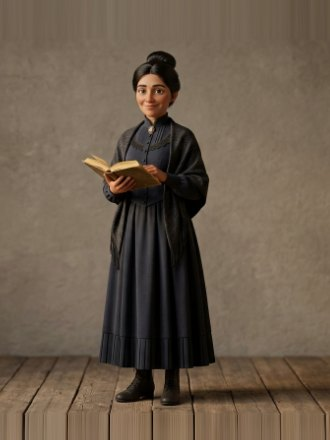
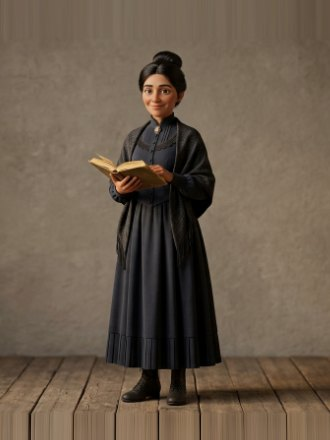
juego-12 Tema 3: la R3 ensena cuales eran, y la oficinista centrada
En el revelado de la R3, una frase que habia que sellar y se quedo sin
sello sale en ambar con "ERA ESTA": antes llevaba una equis a secas y
no se veia cuales eran las correctas.

El centrado de las fotos se mide ahora en la franja de la cabeza y los
hombros, donde solo esta la persona: mas abajo entraban la mesa, la
silla o el borde del piso y corrian el centro. Ademas se recortan los
flancos flojos de la caja (sombras y muebles pegados).

diff --git a/juegos/juego-12/EDINUN GAMES.html b/juegos/juego-12/EDINUN GAMES.html
@@ -3171,22 +3171,34 @@ function L6T3R3Sello({ onSolve, verifyRef, onClear, listo }) {
 
   function frase(f) {
     const marcada = sellados.indexOf(f.id) >= 0;
+    // ⚠ Al revelar hay que ver CUÁLES ERAN las correctas, no solo si acertaste: una
+    // frase que había que sellar y se quedó sin sello sale en ÁMBAR con "ERA ESTA".
+    // Antes llevaba una ✗ a secas y la autora no veía cuáles eran las buenas.
+    const caso = !verified ? null : (marcada ? (f.fuera ? "bien" : "mal") : (f.fuera ? "falto" : "ajena"));
     let bd = marcada ? "#c0392b" : "rgba(120,94,48,0.5)";
-    if (verified) bd = marcada ? (f.fuera ? "#2ecc8f" : "#ff6b6b") : (f.fuera ? "#f2c260" : "rgba(120,94,48,0.5)");
+    if (verified) bd = caso === "bien" ? "#2ecc8f" : caso === "mal" ? "#ff6b6b" : caso === "falto" ? "#f2c260" : "rgba(120,94,48,0.4)";
     return (
       <div key={f.id} data-qa="frase" ref={(el) => { refs.current[f.id] = el; }} onClick={() => sellar(f.id)}
         style={{
           position: "relative", width: "100%", boxSizing: "border-box", minHeight: 56, display: "flex", alignItems: "center", gap: 8,
-          borderRadius: 8, border: `2px solid ${bd}`, background: "rgba(255,253,246,0.93)", padding: "6px 10px",
-          cursor: verified ? "default" : "pointer", userSelect: "none", WebkitUserSelect: "none",
+          borderRadius: 8, border: `${caso === "falto" ? 3 : 2}px solid ${bd}`,
+          background: caso === "falto" ? "rgba(255,236,187,0.96)" : "rgba(255,253,246,0.93)",
+          boxShadow: caso === "falto" ? "0 0 0 3px rgba(242,194,96,0.3)" : "none",
+          padding: "6px 10px", cursor: verified ? "default" : "pointer", userSelect: "none", WebkitUserSelect: "none",
+          opacity: caso === "ajena" ? 0.8 : 1,
         }}>
         <span style={{ flexShrink: 0, fontSize: 11, color: "#8a6410" }}>▸</span>
         <span style={{ flex: 1, minWidth: 0, fontFamily: "var(--ed-font-ui)", fontWeight: 700, fontSize: 13, lineHeight: 1.25, color: "#3a2608" }}>{f.t}</span>
         {marcada && (
           <span style={{ flexShrink: 0, transform: "rotate(-8deg)", border: "2.5px solid rgba(192,57,43,0.85)", borderRadius: 6, padding: "2px 7px", fontFamily: "var(--ed-font-display)", fontWeight: 900, fontSize: 9, letterSpacing: "0.06em", color: "rgba(192,57,43,0.9)", background: "rgba(192,57,43,0.08)" }}>NO ES PUEBLO</span>
         )}
+        {caso === "falto" && (
+          <span style={{ flexShrink: 0, borderRadius: 999, padding: "2px 9px", background: "rgba(242,194,96,0.55)", fontFamily: "var(--ed-font-display)", fontWeight: 900, fontSize: 9, letterSpacing: "0.06em", color: "#8a6410" }}>ERA ESTA</span>
+        )}
         {verified && (
-          <span style={{ flexShrink: 0, width: 17, height: 17, borderRadius: "50%", background: (marcada === f.fuera) ? "#1f8a54" : "#c0392b", color: "#fff", display: "flex", alignItems: "center", justifyContent: "center", fontWeight: 900, fontSize: 11 }}>{(marcada === f.fuera) ? "✓" : "✗"}</span>
+          <span style={{ flexShrink: 0, width: 17, height: 17, borderRadius: "50%", background: caso === "bien" ? "#1f8a54" : caso === "mal" ? "#c0392b" : caso === "falto" ? "#d8a32a" : "rgba(120,94,48,0.35)", color: "#fff", display: "flex", alignItems: "center", justifyContent: "center", fontWeight: 900, fontSize: 11 }}>
+            {caso === "bien" ? "✓" : caso === "mal" ? "✗" : caso === "falto" ? "!" : "✓"}
+          </span>
         )}
       </div>
     );

diff --git a/juegos/juego-12/game-screens.jsx b/juegos/juego-12/game-screens.jsx
@@ -2588,22 +2588,34 @@ function L6T3R3Sello({ onSolve, verifyRef, onClear, listo }) {
 
   function frase(f) {
     const marcada = sellados.indexOf(f.id) >= 0;
+    // ⚠ Al revelar hay que ver CUÁLES ERAN las correctas, no solo si acertaste: una
+    // frase que había que sellar y se quedó sin sello sale en ÁMBAR con "ERA ESTA".
+    // Antes llevaba una ✗ a secas y la autora no veía cuáles eran las buenas.
+    const caso = !verified ? null : (marcada ? (f.fuera ? "bien" : "mal") : (f.fuera ? "falto" : "ajena"));
     let bd = marcada ? "#c0392b" : "rgba(120,94,48,0.5)";
-    if (verified) bd = marcada ? (f.fuera ? "#2ecc8f" : "#ff6b6b") : (f.fuera ? "#f2c260" : "rgba(120,94,48,0.5)");
+    if (verified) bd = caso === "bien" ? "#2ecc8f" : caso === "mal" ? "#ff6b6b" : caso === "falto" ? "#f2c260" : "rgba(120,94,48,0.4)";
     return (
       <div key={f.id} data-qa="frase" ref={(el) => { refs.current[f.id] = el; }} onClick={() => sellar(f.id)}
         style={{
           position: "relative", width: "100%", boxSizing: "border-box", minHeight: 56, display: "flex", alignItems: "center", gap: 8,
-          borderRadius: 8, border: `2px solid ${bd}`, background: "rgba(255,253,246,0.93)", padding: "6px 10px",
-          cursor: verified ? "default" : "pointer", userSelect: "none", WebkitUserSelect: "none",
+          borderRadius: 8, border: `${caso === "falto" ? 3 : 2}px solid ${bd}`,
+          background: caso === "falto" ? "rgba(255,236,187,0.96)" : "rgba(255,253,246,0.93)",
+          boxShadow: caso === "falto" ? "0 0 0 3px rgba(242,194,96,0.3)" : "none",
+          padding: "6px 10px", cursor: verified ? "default" : "pointer", userSelect: "none", WebkitUserSelect: "none",
+          opacity: caso === "ajena" ? 0.8 : 1,
         }}>
         <span style={{ flexShrink: 0, fontSize: 11, color: "#8a6410" }}>▸</span>
         <span style={{ flex: 1, minWidth: 0, fontFamily: "var(--ed-font-ui)", fontWeight: 700, fontSize: 13, lineHeight: 1.25, color: "#3a2608" }}>{f.t}</span>
         {marcada && (
           <span style={{ flexShrink: 0, transform: "rotate(-8deg)", border: "2.5px solid rgba(192,57,43,0.85)", borderRadius: 6, padding: "2px 7px", fontFamily: "var(--ed-font-display)", fontWeight: 900, fontSize: 9, letterSpacing: "0.06em", color: "rgba(192,57,43,0.9)", background: "rgba(192,57,43,0.08)" }}>NO ES PUEBLO</span>
         )}
+        {caso === "falto" && (
+          <span style={{ flexShrink: 0, borderRadius: 999, padding: "2px 9px", background: "rgba(242,194,96,0.55)", fontFamily: "var(--ed-font-display)", fontWeight: 900, fontSize: 9, letterSpacing: "0.06em", color: "#8a6410" }}>ERA ESTA</span>
+        )}
         {verified && (
-          <span style={{ flexShrink: 0, width: 17, height: 17, borderRadius: "50%", background: (marcada === f.fuera) ? "#1f8a54" : "#c0392b", color: "#fff", display: "flex", alignItems: "center", justifyContent: "center", fontWeight: 900, fontSize: 11 }}>{(marcada === f.fuera) ? "✓" : "✗"}</span>
+          <span style={{ flexShrink: 0, width: 17, height: 17, borderRadius: "50%", background: caso === "bien" ? "#1f8a54" : caso === "mal" ? "#c0392b" : caso === "falto" ? "#d8a32a" : "rgba(120,94,48,0.35)", color: "#fff", display: "flex", alignItems: "center", justifyContent: "center", fontWeight: 900, fontSize: 11 }}>
+            {caso === "bien" ? "✓" : caso === "mal" ? "✗" : caso === "falto" ? "!" : "✓"}
+          </span>
         )}
       </div>
     );

diff --git a/juegos/juego-12/index.html b/juegos/juego-12/index.html
@@ -3171,22 +3171,34 @@ function L6T3R3Sello({ onSolve, verifyRef, onClear, listo }) {
 
   function frase(f) {
     const marcada = sellados.indexOf(f.id) >= 0;
+    // ⚠ Al revelar hay que ver CUÁLES ERAN las correctas, no solo si acertaste: una
+    // frase que había que sellar y se quedó sin sello sale en ÁMBAR con "ERA ESTA".
+    // Antes llevaba una ✗ a secas y la autora no veía cuáles eran las buenas.
+    const caso = !verified ? null : (marcada ? (f.fuera ? "bien" : "mal") : (f.fuera ? "falto" : "ajena"));
     let bd = marcada ? "#c0392b" : "rgba(120,94,48,0.5)";
-    if (verified) bd = marcada ? (f.fuera ? "#2ecc8f" : "#ff6b6b") : (f.fuera ? "#f2c260" : "rgba(120,94,48,0.5)");
+    if (verified) bd = caso === "bien" ? "#2ecc8f" : caso === "mal" ? "#ff6b6b" : caso === "falto" ? "#f2c260" : "rgba(120,94,48,0.4)";
     return (
       <div key={f.id} data-qa="frase" ref={(el) => { refs.current[f.id] = el; }} onClick={() => sellar(f.id)}
         style={{
           position: "relative", width: "100%", boxSizing: "border-box", minHeight: 56, display: "flex", alignItems: "center", gap: 8,
-          borderRadius: 8, border: `2px solid ${bd}`, background: "rgba(255,253,246,0.93)", padding: "6px 10px",
-          cursor: verified ? "default" : "pointer", userSelect: "none", WebkitUserSelect: "none",
+          borderRadius: 8, border: `${caso === "falto" ? 3 : 2}px solid ${bd}`,
+          background: caso === "falto" ? "rgba(255,236,187,0.96)" : "rgba(255,253,246,0.93)",
+          boxShadow: caso === "falto" ? "0 0 0 3px rgba(242,194,96,0.3)" : "none",
+          padding: "6px 10px", cursor: verified ? "default" : "pointer", userSelect: "none", WebkitUserSelect: "none",
+          opacity: caso === "ajena" ? 0.8 : 1,
         }}>
         <span style={{ flexShrink: 0, fontSize: 11, color: "#8a6410" }}>▸</span>
         <span style={{ flex: 1, minWidth: 0, fontFamily: "var(--ed-font-ui)", fontWeight: 700, fontSize: 13, lineHeight: 1.25, color: "#3a2608" }}>{f.t}</span>
         {marcada && (
           <span style={{ flexShrink: 0, transform: "rotate(-8deg)", border: "2.5px solid rgba(192,57,43,0.85)", borderRadius: 6, padding: "2px 7px", fontFamily: "var(--ed-font-display)", fontWeight: 900, fontSize: 9, letterSpacing: "0.06em", color: "rgba(192,57,43,0.9)", background: "rgba(192,57,43,0.08)" }}>NO ES PUEBLO</span>
         )}
+        {caso === "falto" && (
+          <span style={{ flexShrink: 0, borderRadius: 999, padding: "2px 9px", background: "rgba(242,194,96,0.55)", fontFamily: "var(--ed-font-display)", fontWeight: 900, fontSize: 9, letterSpacing: "0.06em", color: "#8a6410" }}>ERA ESTA</span>
+        )}
         {verified && (
-          <span style={{ flexShrink: 0, width: 17, height: 17, borderRadius: "50%", background: (marcada === f.fuera) ? "#1f8a54" : "#c0392b", color: "#fff", display: "flex", alignItems: "center", justifyContent: "center", fontWeight: 900, fontSize: 11 }}>{(marcada === f.fuera) ? "✓" : "✗"}</span>
+          <span style={{ flexShrink: 0, width: 17, height: 17, borderRadius: "50%", background: caso === "bien" ? "#1f8a54" : caso === "mal" ? "#c0392b" : caso === "falto" ? "#d8a32a" : "rgba(120,94,48,0.35)", color: "#fff", display: "flex", alignItems: "center", justifyContent: "center", fontWeight: 900, fontSize: 11 }}>
+            {caso === "bien" ? "✓" : caso === "mal" ? "✗" : caso === "falto" ? "!" : "✓"}
+          </span>
         )}
       </div>
     );

diff --git a/juegos/juego-12/.planning/optimizar-j6t3.js b/juegos/juego-12/.planning/optimizar-j6t3.js
@@ -79,6 +79,14 @@ const ANCHO = 330, ALTO = 440, CALIDAD = 0.86;
       }
       if (!mejor) return null;
       let [x0, x1] = mejor;
+      // ⚠ Recortar los FLANCOS FLOJOS de la racha: un mueble pegado a la persona (la
+      // mesita de la oficinista) o su sombra marcan pocos píxeles por columna, pero
+      // bastan para alargar la caja y descentrarla. Se quitan los bordes que no llegan
+      // a la cuarta parte de la columna más llena.
+      let pico = 0;
+      for (let x = x0; x <= x1; x++) pico = Math.max(pico, col[x]);
+      while (x0 < x1 && col[x0] < pico * 0.25) x0++;
+      while (x1 > x0 && col[x1] < pico * 0.25) x1--;
 
       // ── 2. La cabeza y los pies, dentro de esa franja ──
       const marcadosEnFila = (y, umbral) => {
@@ -105,8 +113,18 @@ const ANCHO = 330, ALTO = 440, CALIDAD = 0.86;
       // o su sombra corren ese punto y la persona queda descentrada (pasó con la
       // oficinista y su mesita). Se usa el CENTRO DE MASA de los píxeles marcados, que
       // pesa por cuánta figura hay en cada columna.
+      // Se mide en la franja de la CABEZA Y LOS HOMBROS (15 %-38 % del alto): ahí solo
+      // está la persona. Más abajo entran la mesa, la silla o el borde del piso, que
+      // corren el centro (la oficinista salía pegada a la derecha dos veces seguidas).
+      const yC0 = Math.round(H * 0.15), yC1 = Math.round(H * 0.38);
+      const colC = new Array(W).fill(0);
+      for (let y = yC0; y < yC1; y++) {
+        const fondo = fondoDeFila(y);
+        for (let x = x0; x <= x1; x++) if (difiere(x, y, fondo, 60)) colC[x]++;
+      }
       let suma = 0, peso = 0;
-      for (let x = x0; x <= x1; x++) { suma += x * col[x]; peso += col[x]; }
+      for (let x = x0; x <= x1; x++) { suma += x * colC[x]; peso += colC[x]; }
+      if (!peso) { for (let x = x0; x <= x1; x++) { suma += x * col[x]; peso += col[x]; } }
       const cxm = peso ? suma / peso : (x0 + x1) / 2;
       let cy1 = y1 + escala * PIE;
       let cy0 = cy1 - escala;
